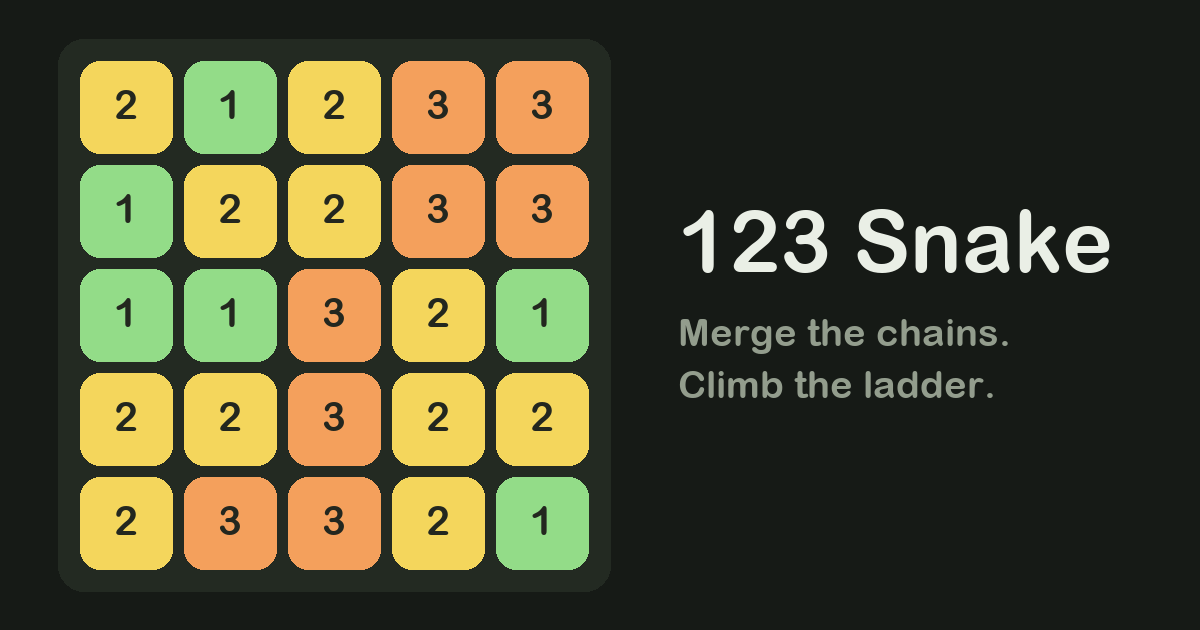
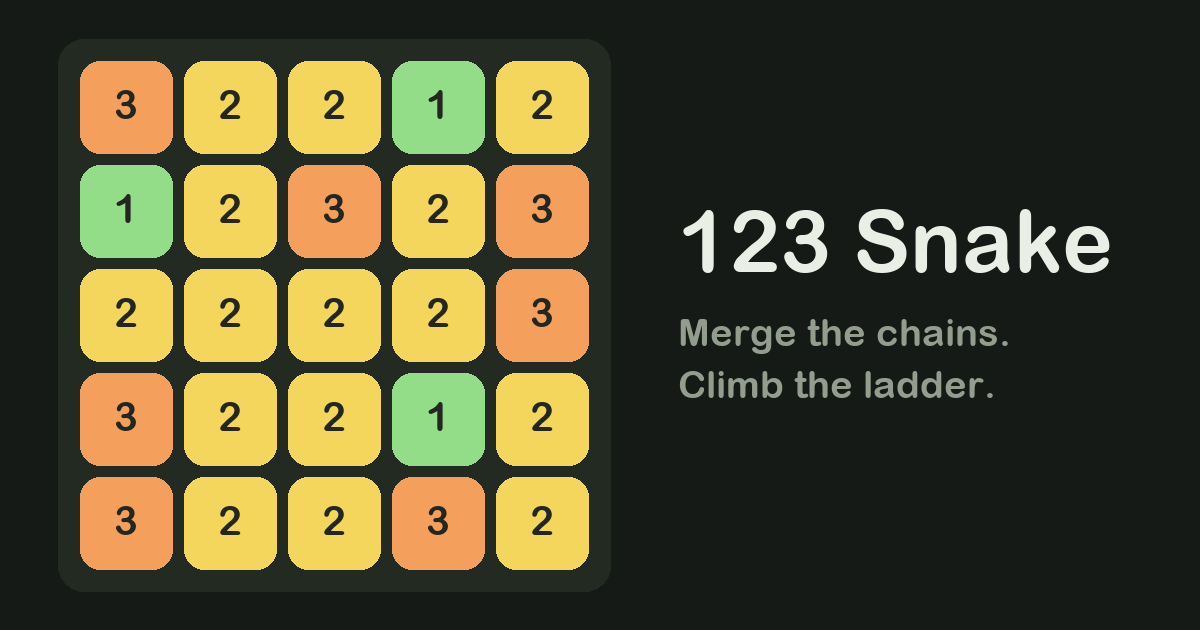
Audio unlock for mobile, crypto seeding, lab polish
Game + lab: one-time gesture unlock (silent-buffer trick on first
touchend/pointerdown) and a resume() retry inside blip - mobile Chrome
keeps a suspended AudioContext without these; seeds now come from
crypto.getRandomValues instead of Math.random. Lab: Play/Pause width
fixed, speed slider snaps to five stops (900/500/300/150/70 ms).

Changed region(s): [[0.0617, 0.0905, 0.4933, 0.9048], [0.0617, 0.0905, 0.2467, 0.2714], [0.4008, 0.4222, 0.4933, 0.573]]

diff --git a/solver/watch.html b/solver/watch.html
@@ -73,6 +73,7 @@
     padding:9px 16px;cursor:pointer;}
   button:hover{border-color:var(--muted);}
   button:disabled{opacity:.4;cursor:default;border-color:var(--line);}
+  #play{min-width:5.4em;}
   .speed{display:flex;align-items:center;gap:9px;background:var(--card);
     border:1px solid var(--line);border-radius:12px;padding:7px 14px;}
   .speed .lbl{font-size:10.5px;font-weight:700;text-transform:uppercase;
@@ -134,7 +135,7 @@
     <button id="mute">Sound: on</button>
     <div class="speed">
       <span class="lbl">Speed</span>
-      <input type="range" id="speed" min="0" max="100" value="55">
+      <input type="range" id="speed" min="0" max="4" step="1" value="2">
       <output id="speedout"></output>
     </div>
   </div>
@@ -147,6 +148,10 @@
 </div>
 <script>
 (function(){
+  function rndSeed(){
+    try{var u=new Uint32Array(1);crypto.getRandomValues(u);return u[0];}
+    catch(_){return (Math.random()*4294967296)>>>0;}
+  }
   // ---- colors: exact copy of the game's colorFor (incl. mild deepening) ----
   var TIERS=[1,2,3,4,5,6,7,8,9,10,12,16,20,24,32,40,48,64,96,128,192,256,384,512,768,1024,1536,2048];
   var COLS=['hsl(112,55%,70%)','hsl(48,88%,66%)','hsl(27,88%,66%)','hsl(266,72%,78%)',
@@ -189,6 +194,7 @@
   function blip(f,dt,dur,type,g){
     if(!AC||!soundOn) return;
     try{
+      if(AC.state==='suspended') AC.resume();
       var t0=AC.currentTime+(dt||0);
       var o=AC.createOscillator(), gn=AC.createGain();
       o.type=type||'sine'; o.frequency.value=f;
@@ -199,6 +205,21 @@
       o.start(t0); o.stop(t0+(dur||.08)+.02);
     }catch(_){}
   }
+  function unlockAudio(){
+    initAudio();
+    if(AC){
+      try{
+        var b=AC.createBuffer(1,1,22050), src=AC.createBufferSource();
+        src.buffer=b; src.connect(AC.destination); src.start(0);
+      }catch(_){}
+    }
+    ['touchend','pointerdown','keydown'].forEach(function(t){
+      document.removeEventListener(t,unlockAudio,true);
+    });
+  }
+  ['touchend','pointerdown','keydown'].forEach(function(t){
+    document.addEventListener(t,unlockAudio,true);
+  });
   var PENTA=[0,2,4,7,9];
   function sTick(i){
     i=Math.min(i,14);
@@ -341,7 +362,7 @@
   }
   function newGame(){
     playing=false;document.getElementById('play').textContent='Play';
-    api('/new?seed='+((Math.random()*4294967296)>>>0)).then(function(st){
+    api('/new?seed='+rndSeed()).then(function(st){
       render(st.cells);setStat(st);refreshMoves();
     });
   }
@@ -417,12 +438,10 @@
 
   // ---- controls ----
   var speedEl=document.getElementById('speed');
-  function delayMs(){
-    var t=+speedEl.value/100;
-    return Math.round(900-t*(900-70));
-  }
+  var SPEEDS=[900,500,300,150,70];
+  function delayMs(){return SPEEDS[+speedEl.value]}
   function speedUi(){
-    speedEl.style.setProperty('--fill',speedEl.value+'%');
+    speedEl.style.setProperty('--fill',(+speedEl.value/4*100)+'%');
     document.getElementById('speedout').textContent=delayMs()+' ms';
   }
   speedEl.oninput=speedUi; speedUi();

diff --git a/123-snake.html b/123-snake.html
@@ -192,7 +192,11 @@
     grid[r][c]=t;
     return t;
   }
-  var rngState=(Math.random()*4294967296)>>>0;
+  function rndSeed(){
+    try{var u=new Uint32Array(1);crypto.getRandomValues(u);return u[0];}
+    catch(_){return (Math.random()*4294967296)>>>0;}
+  }
+  var rngState=rndSeed();
   function rand(){
     rngState=(rngState+0x6D2B79F5)>>>0;
     var t=rngState;
@@ -241,7 +245,7 @@
   }
   function newGame(){
     score=0; overEl.hidden=true;
-    rngState=(Math.random()*4294967296)>>>0;
+    rngState=rndSeed();
     build(freshVals()); hud(); refresh();
   }
 
@@ -358,6 +362,7 @@
   function blip(f,dt,dur,type,g){
     if(!AC||!soundOn) return;
     try{
+      if(AC.state==='suspended') AC.resume();
       var t0=AC.currentTime+(dt||0);
       var o=AC.createOscillator(), gn=AC.createGain();
       o.type=type||'sine'; o.frequency.value=f;
@@ -368,6 +373,21 @@
       o.start(t0); o.stop(t0+(dur||.08)+.02);
     }catch(_){}
   }
+  function unlockAudio(){
+    initAudio();
+    if(AC){
+      try{
+        var b=AC.createBuffer(1,1,22050), src=AC.createBufferSource();
+        src.buffer=b; src.connect(AC.destination); src.start(0);
+      }catch(_){}
+    }
+    ['touchend','pointerdown','keydown'].forEach(function(t){
+      document.removeEventListener(t,unlockAudio,true);
+    });
+  }
+  ['touchend','pointerdown','keydown'].forEach(function(t){
+    document.addEventListener(t,unlockAudio,true);
+  });
   var PENTA=[0,2,4,7,9];
   function sTick(i){
     i=Math.min(i,14);

diff --git a/docs/index.html b/docs/index.html
@@ -209,7 +209,11 @@
     grid[r][c]=t;
     return t;
   }
-  var rngState=(Math.random()*4294967296)>>>0;
+  function rndSeed(){
+    try{var u=new Uint32Array(1);crypto.getRandomValues(u);return u[0];}
+    catch(_){return (Math.random()*4294967296)>>>0;}
+  }
+  var rngState=rndSeed();
   function rand(){
     rngState=(rngState+0x6D2B79F5)>>>0;
     var t=rngState;
@@ -258,7 +262,7 @@
   }
   function newGame(){
     score=0; overEl.hidden=true;
-    rngState=(Math.random()*4294967296)>>>0;
+    rngState=rndSeed();
     build(freshVals()); hud(); refresh();
   }
 
@@ -375,6 +379,7 @@
   function blip(f,dt,dur,type,g){
     if(!AC||!soundOn) return;
     try{
+      if(AC.state==='suspended') AC.resume();
       var t0=AC.currentTime+(dt||0);
       var o=AC.createOscillator(), gn=AC.createGain();
       o.type=type||'sine'; o.frequency.value=f;
@@ -385,6 +390,21 @@
       o.start(t0); o.stop(t0+(dur||.08)+.02);
     }catch(_){}
   }
+  function unlockAudio(){
+    initAudio();
+    if(AC){
+      try{
+        var b=AC.createBuffer(1,1,22050), src=AC.createBufferSource();
+        src.buffer=b; src.connect(AC.destination); src.start(0);
+      }catch(_){}
+    }
+    ['touchend','pointerdown','keydown'].forEach(function(t){
+      document.removeEventListener(t,unlockAudio,true);
+    });
+  }
+  ['touchend','pointerdown','keydown'].forEach(function(t){
+    document.addEventListener(t,unlockAudio,true);
+  });
   var PENTA=[0,2,4,7,9];
   function sTick(i){
     i=Math.min(i,14);